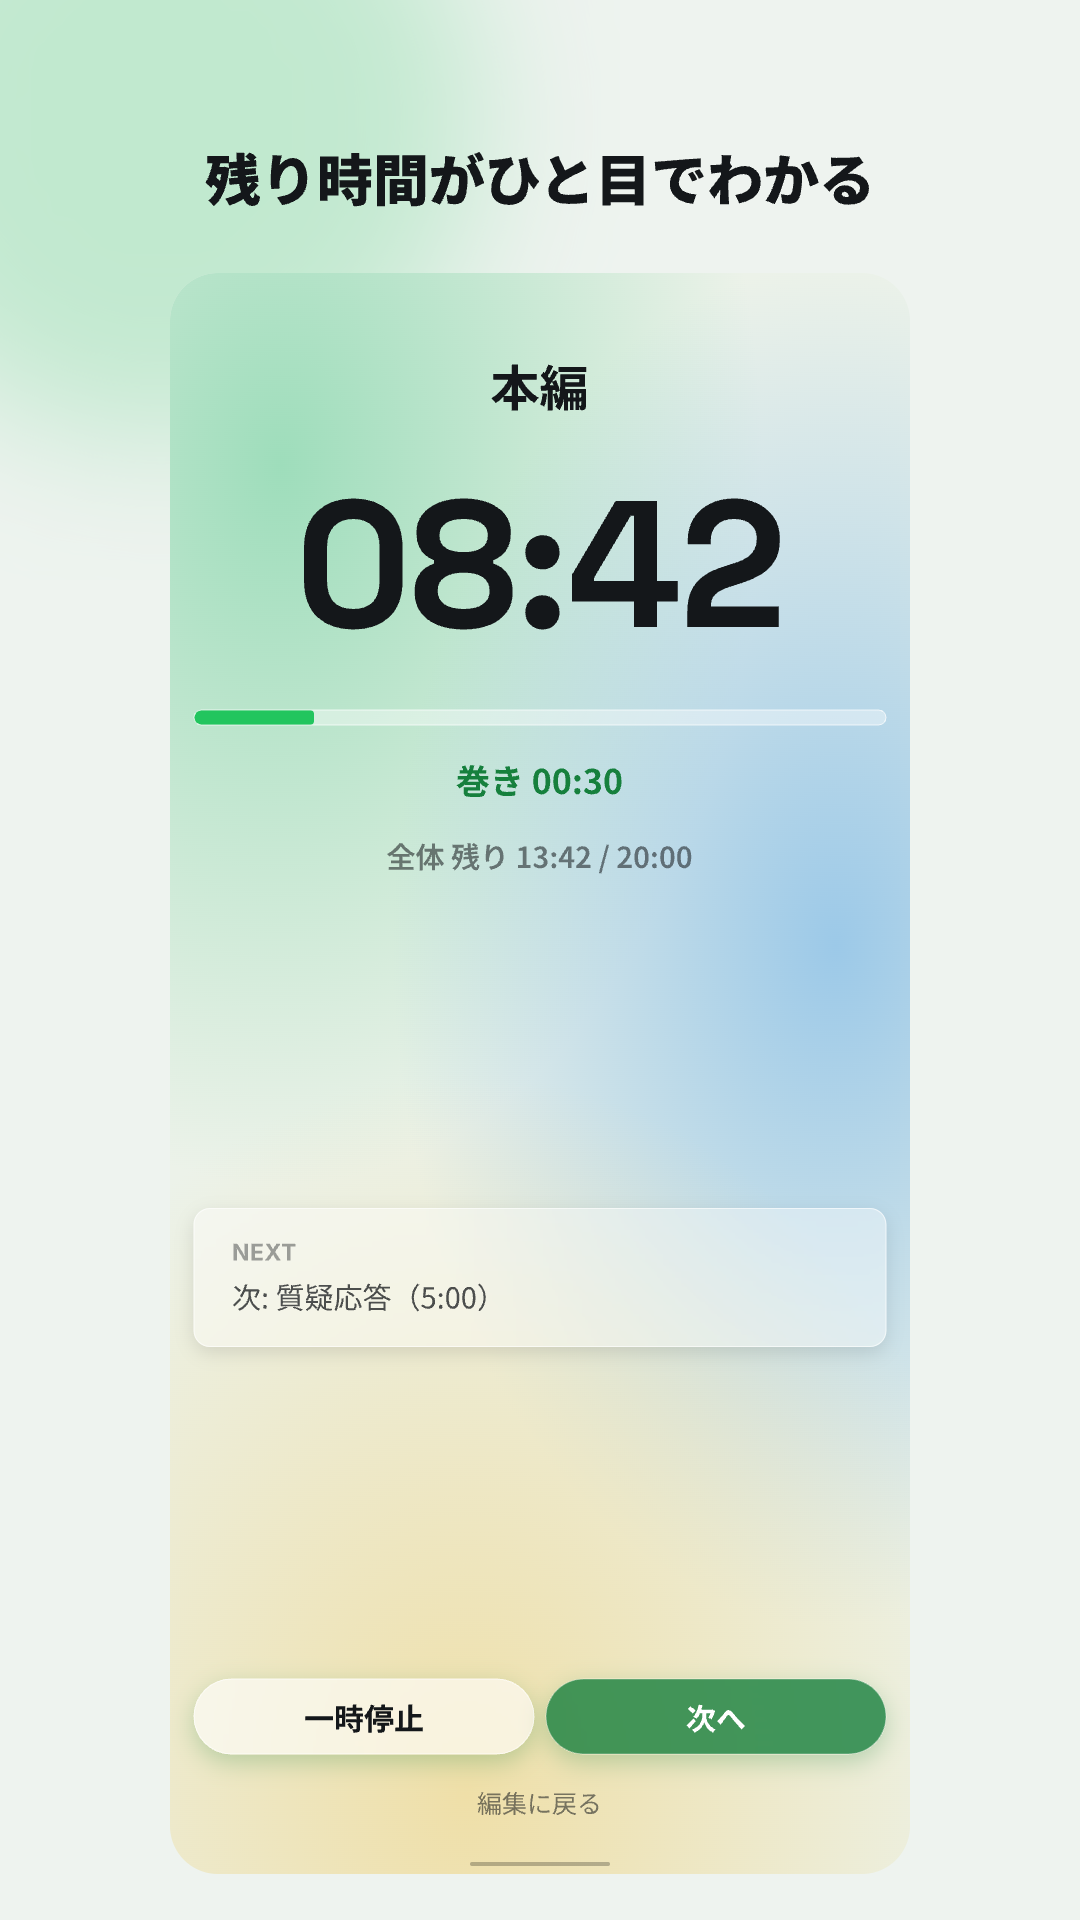
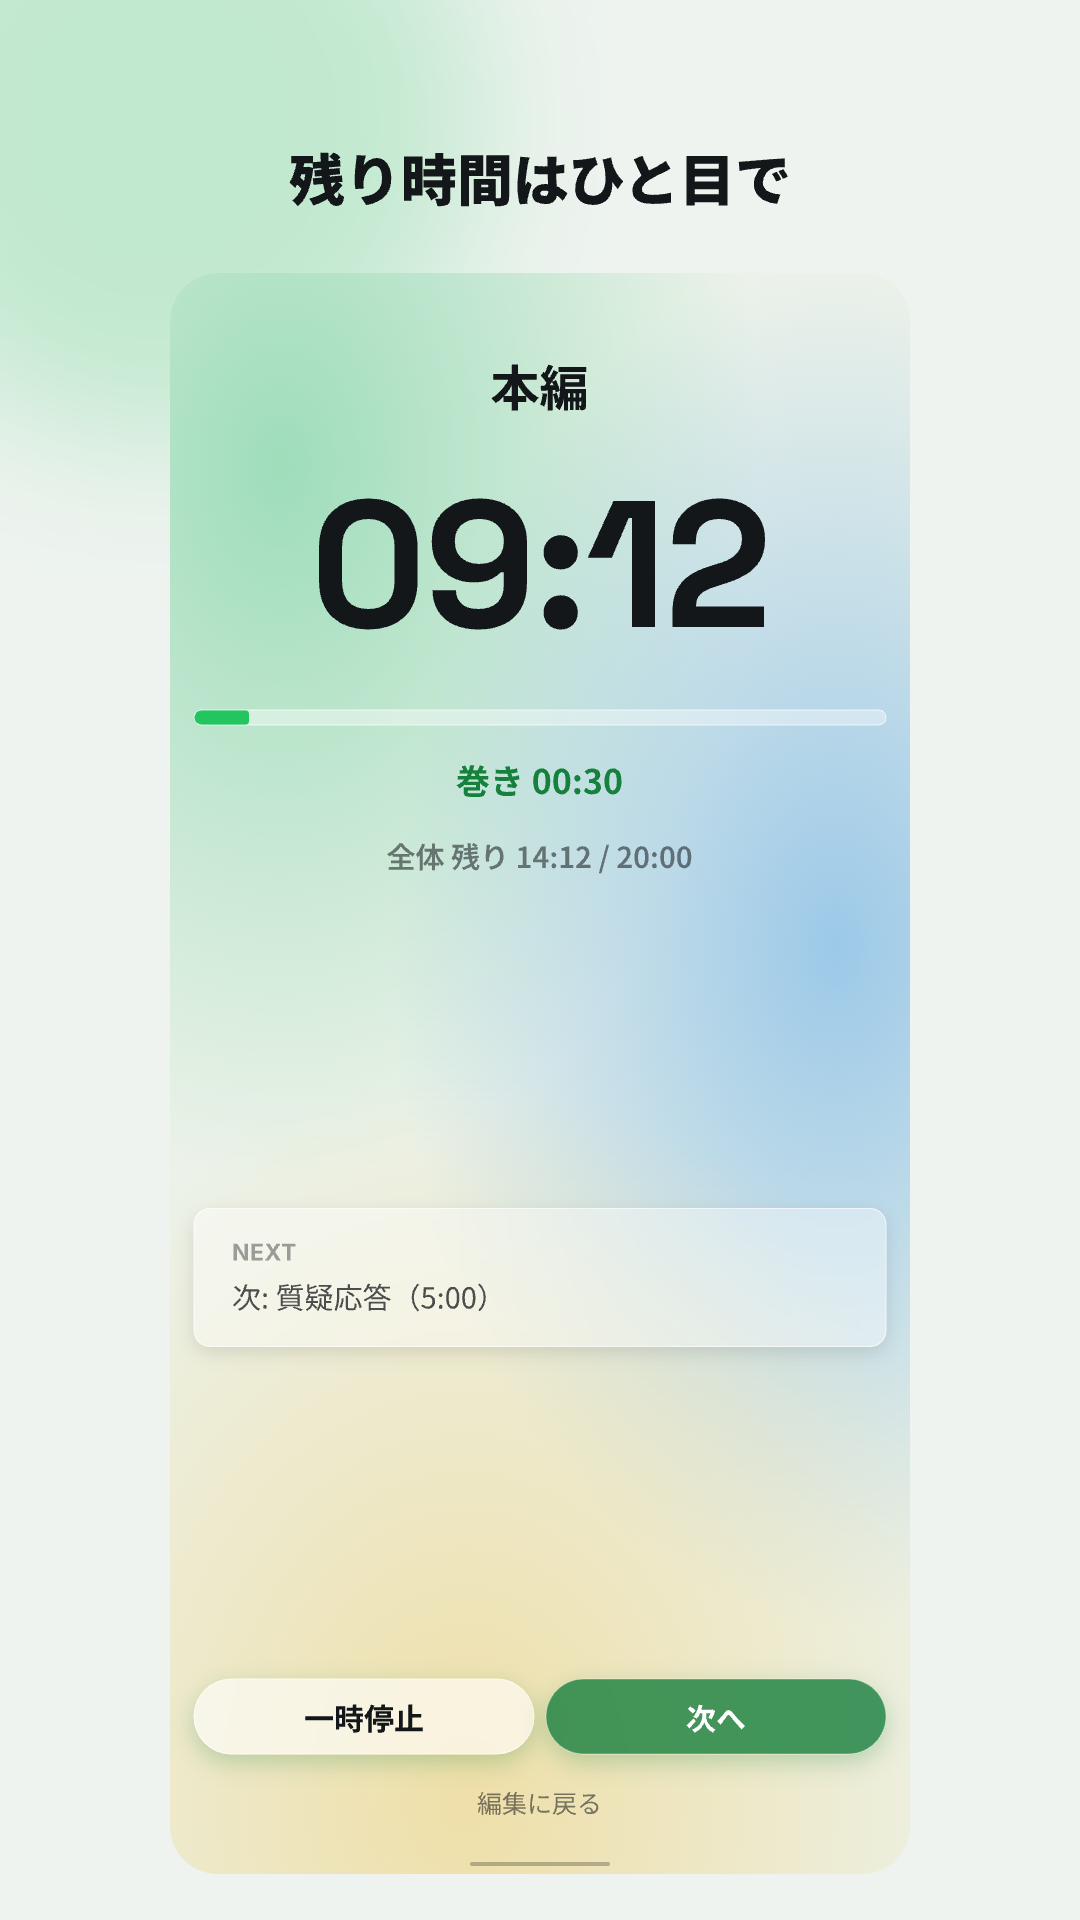
docs: Play ストアのスクリーンショットに「定刻」状態を追加
タイマー色の 3 段階（安全=緑／定刻=黄／超過=赤）が連続して伝わるよう、
定刻状態のスクリーンショットを 03 として追加し、以降を 04/05 へ繰り下げた。
併せて掲載素材一覧の参照ファイル名と枚数を実態へ更新。

diff --git a/docs/09-play-store-listing.md b/docs/09-play-store-listing.md
@@ -102,7 +102,7 @@
 |---|---|---|
 | アプリアイコン | 512×512 PNG（32bit、1MB 以下） | `docs/assets/icon-512.png`（不透明・白背景） |
 | フィーチャーグラフィック | 1024×500 PNG/JPEG（必須） | `docs/assets/feature-graphic.png` |
-| スマホスクリーンショット | 2〜8 枚。縦横比 16:9 または 9:16、辺 320〜3840px | `docs/assets/screenshot-01-agenda.png` 〜 `screenshot-04-settings.png`（1080×1920） |
+| スマホスクリーンショット | 2〜8 枚。縦横比 16:9 または 9:16、辺 320〜3840px | `docs/assets/screenshot-01-agenda.png` 〜 `screenshot-05-settings.png`（1080×1920、5 枚） |
 | 7"/10" タブレット | 任意（タブレット対応を謳う場合） | 後回しで可 |
 
 ## 提出までのフロー（個人アカウントの制約）
